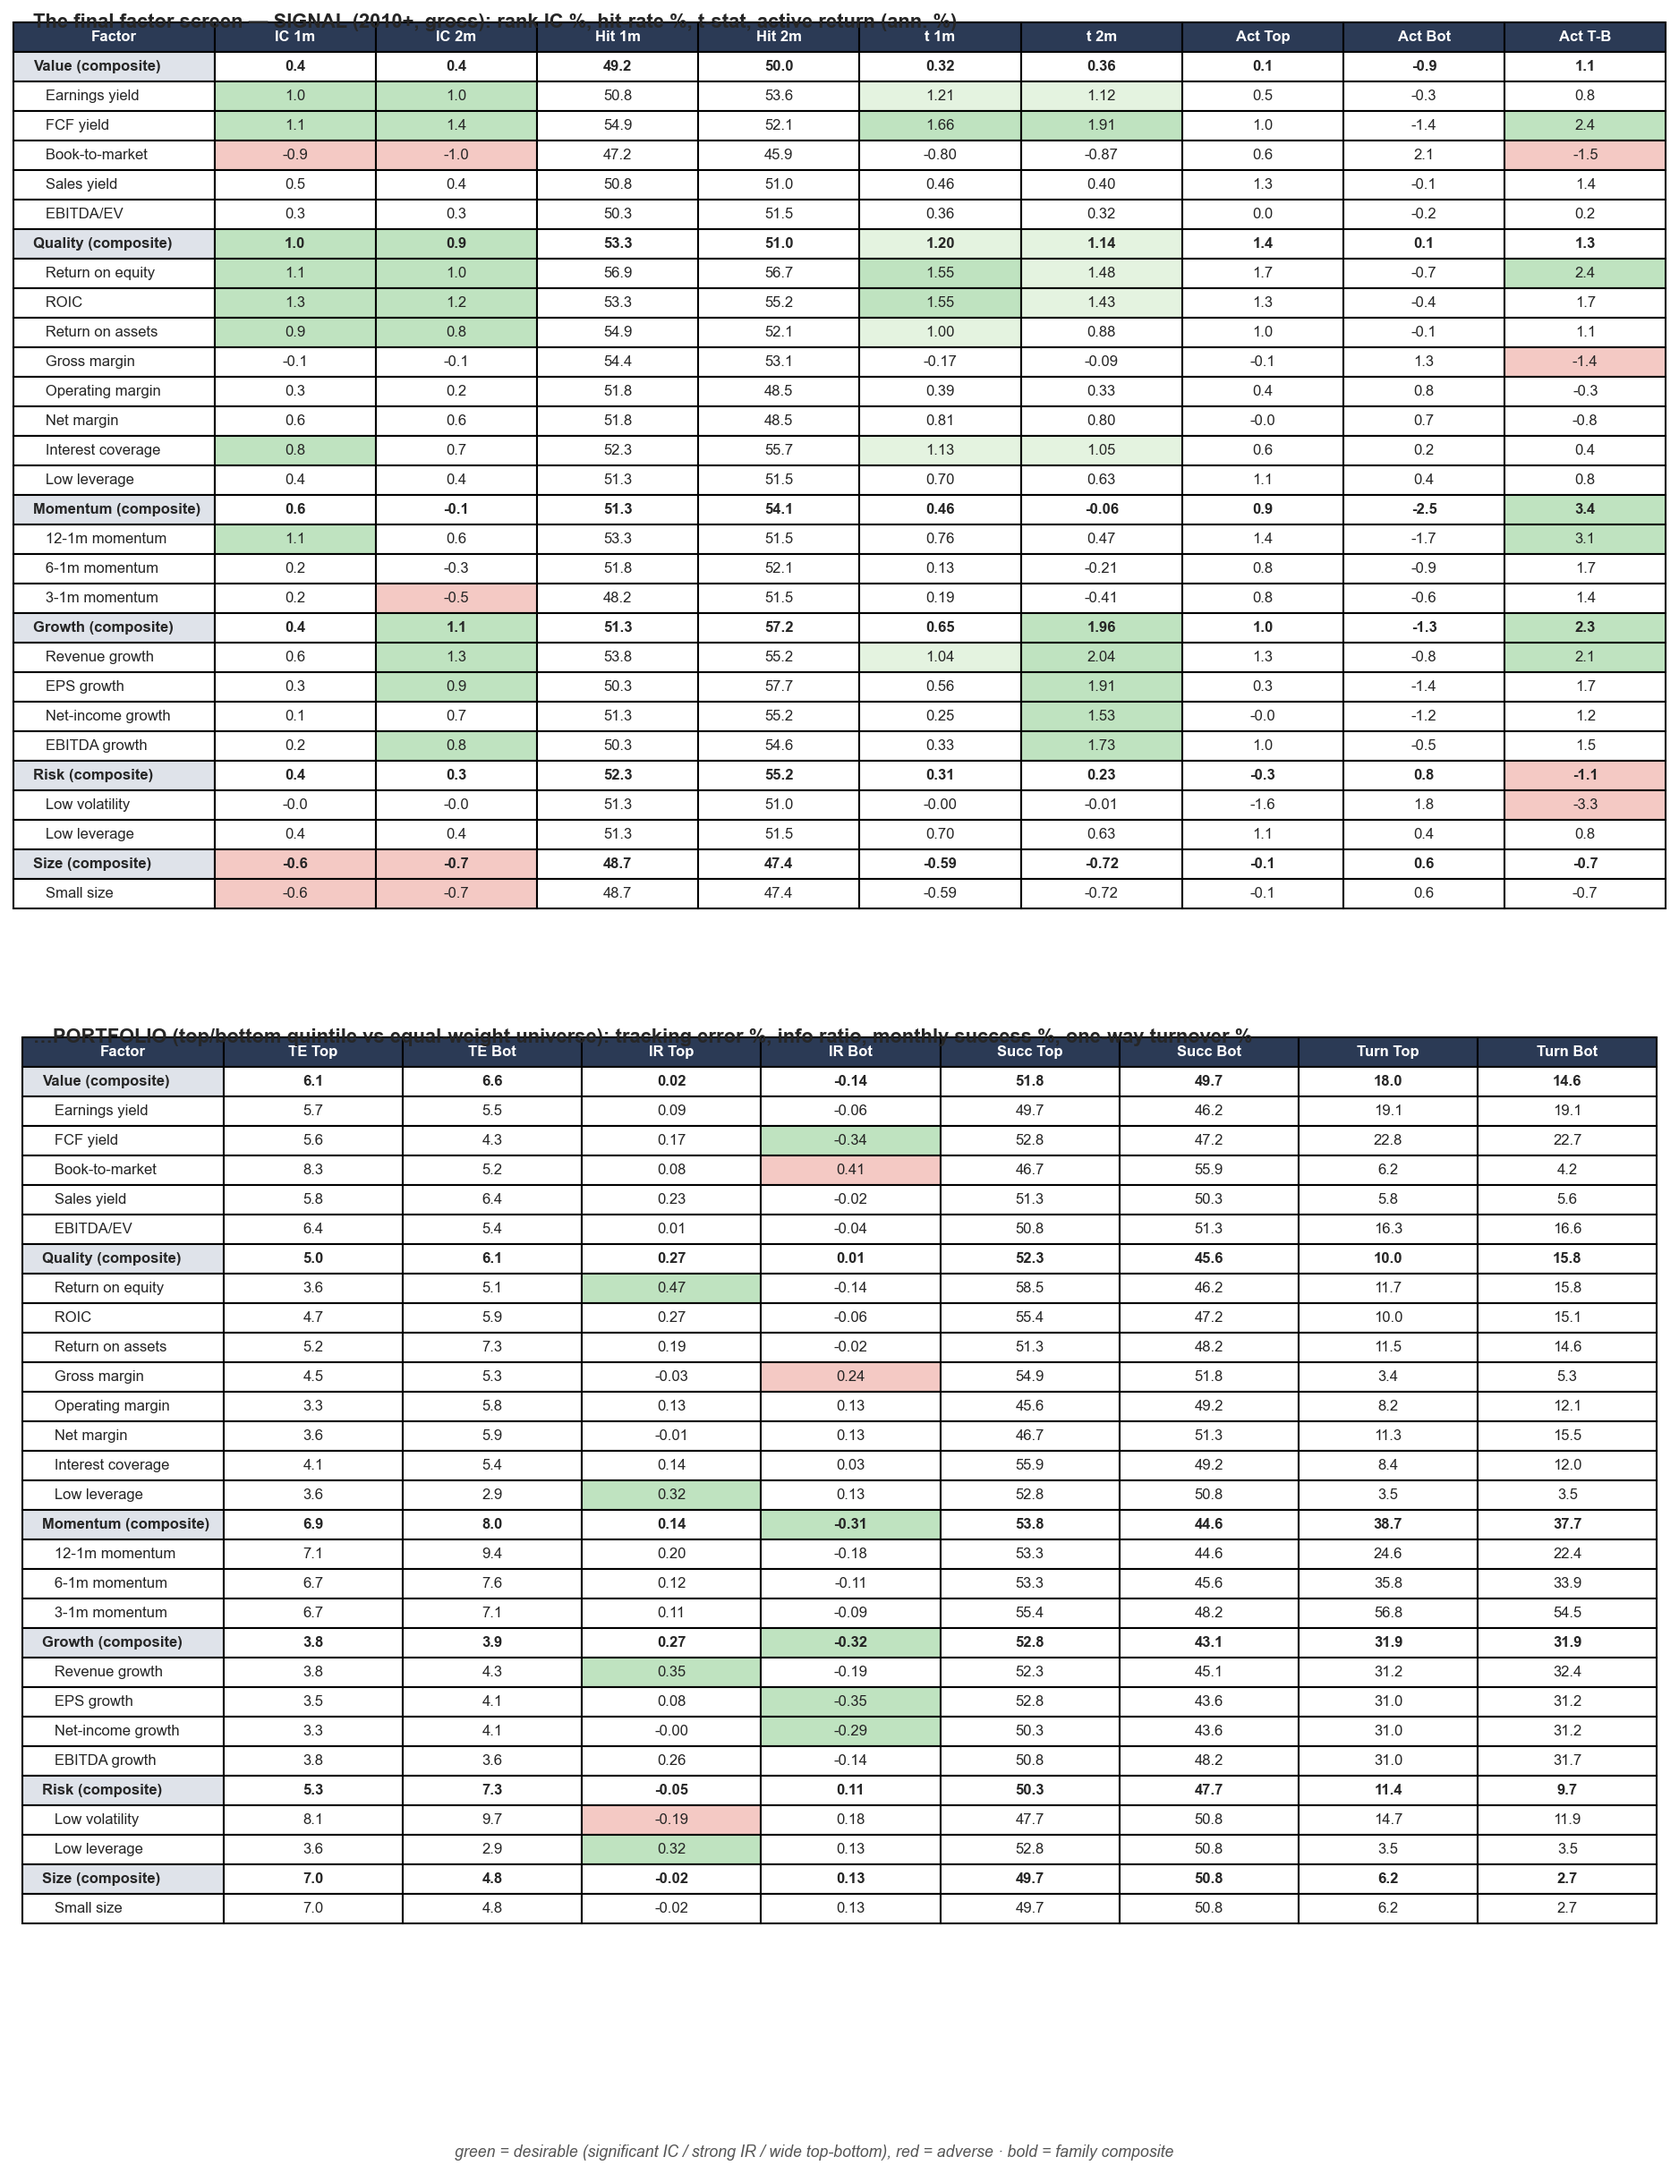
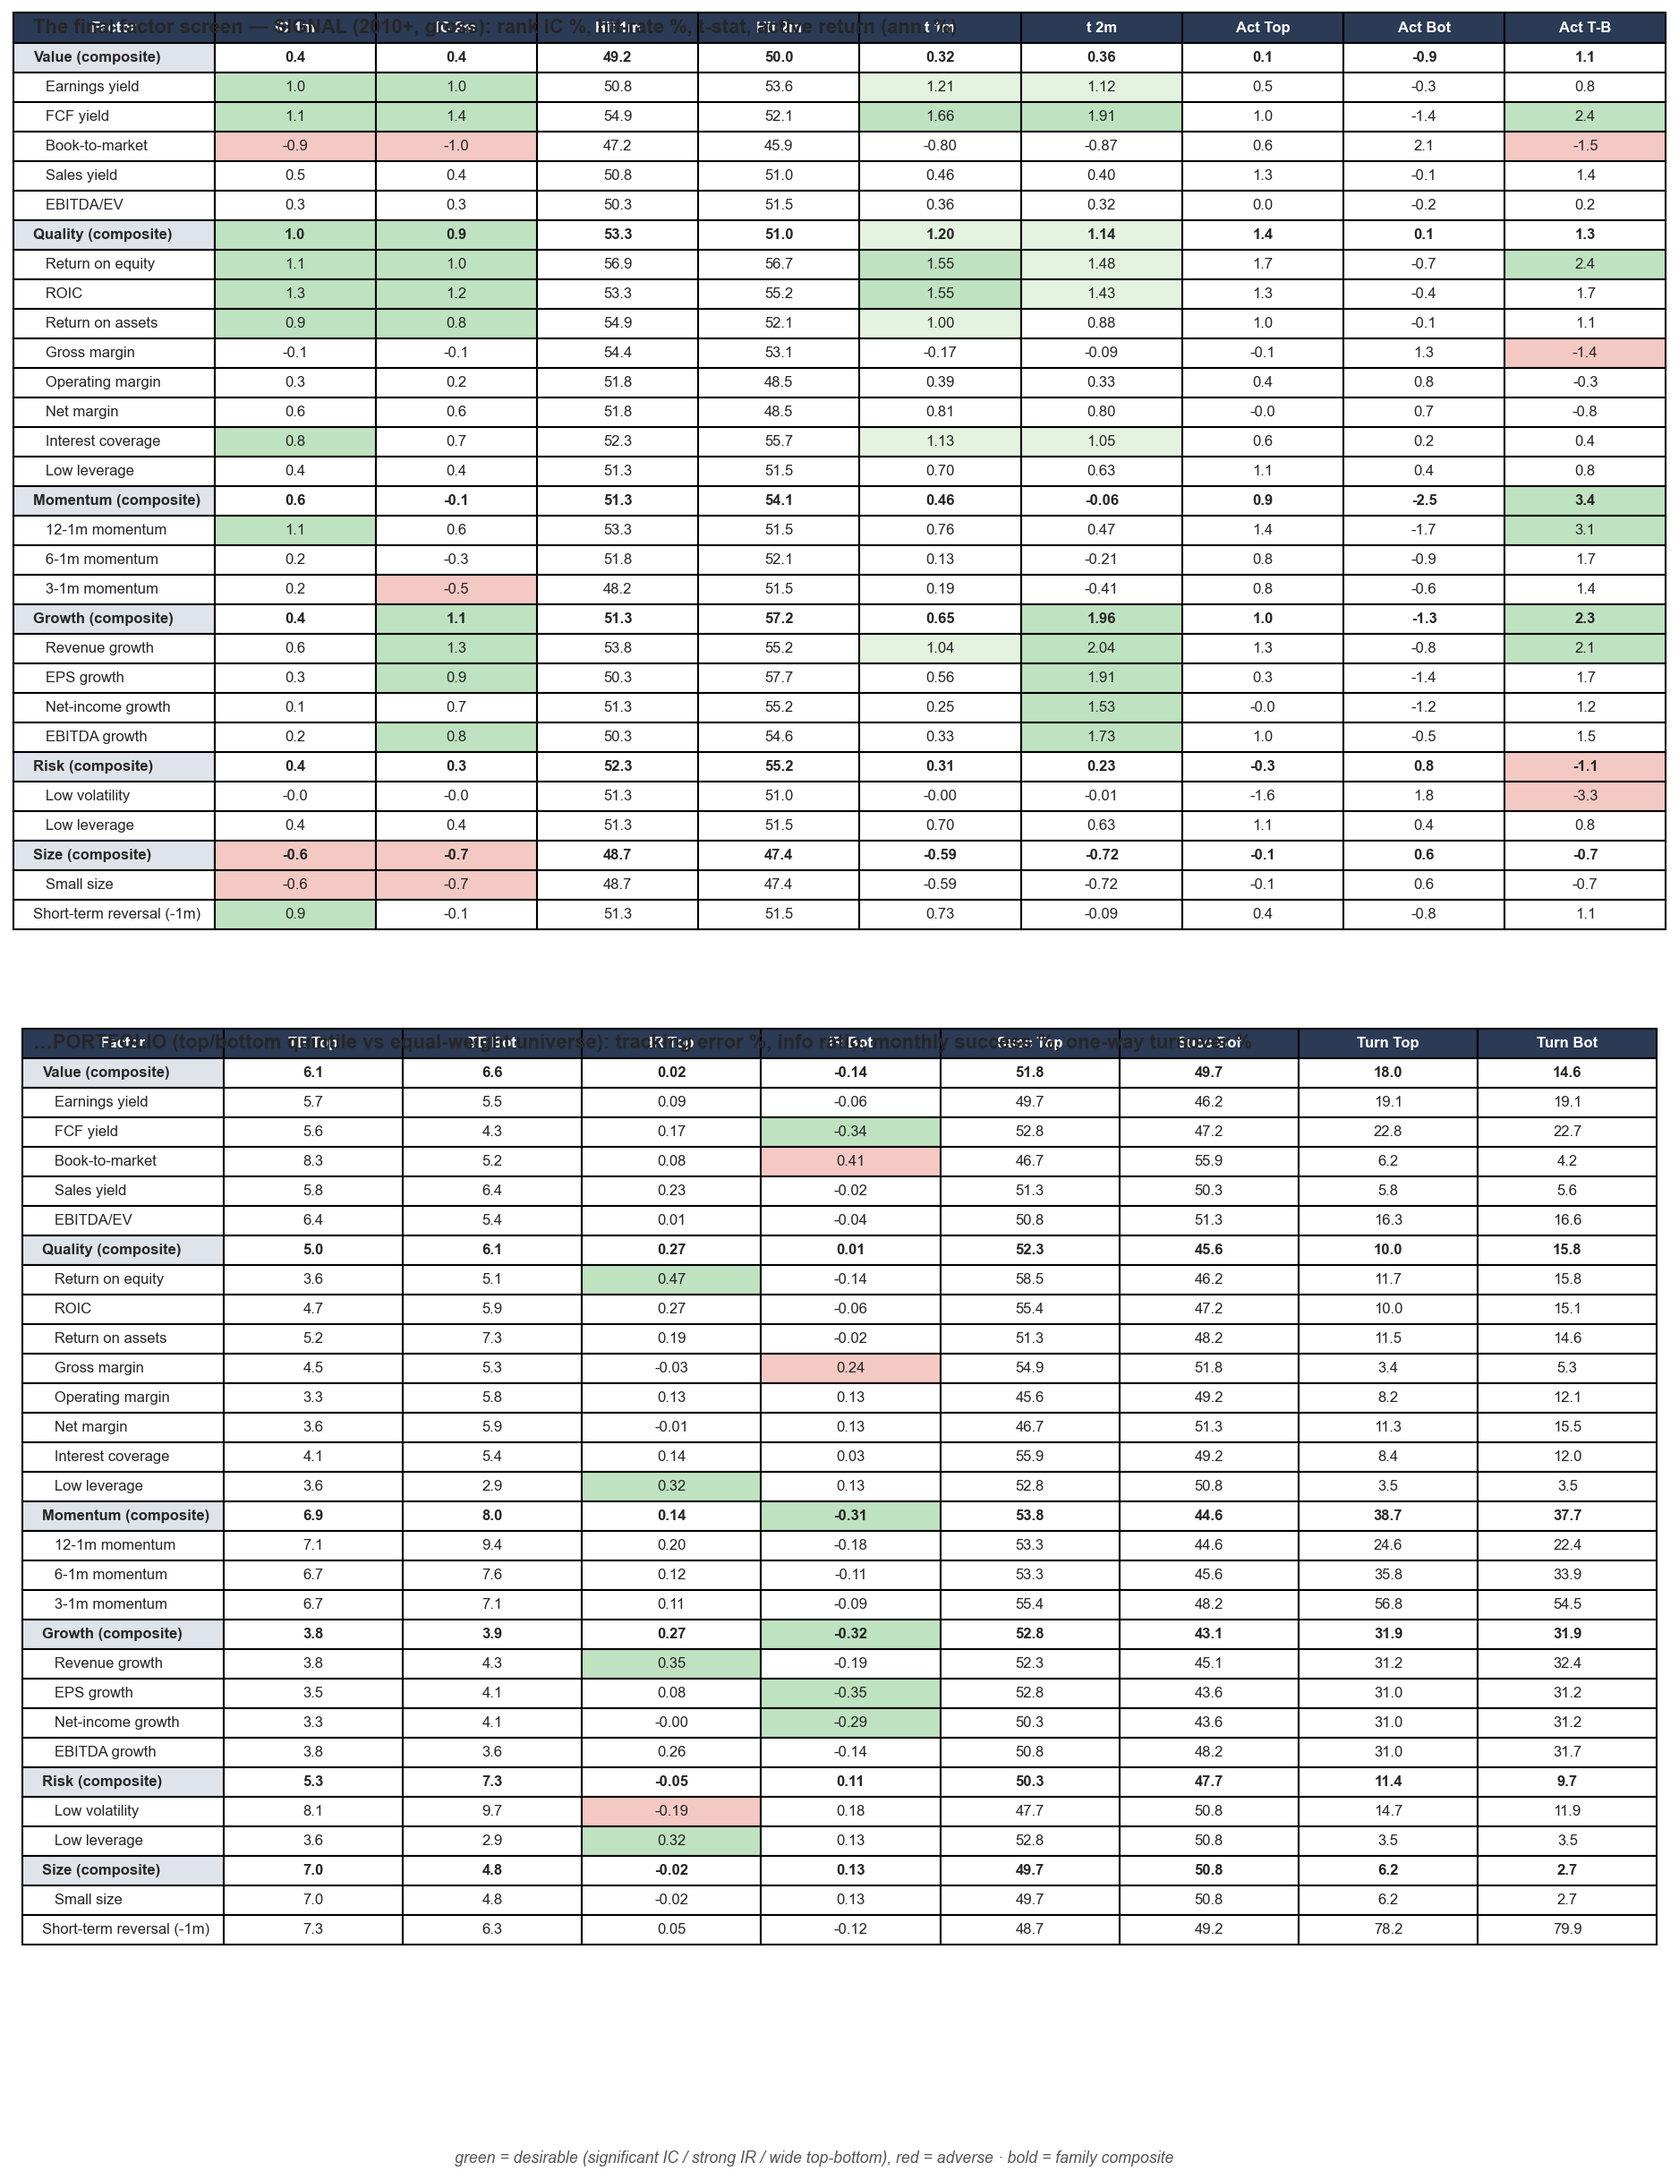
Add short-term reversal factor; include it in the factor screen
Adds a standalone 1-month reversal factor (-1m return, ranked) so the effect the
stale-price value factor was capturing accidentally is now explicit and measured.
Screen verdict: gross 1m IC 0.9% (t 0.73, ~ momentum) but ~79% monthly turnover and
it decays to zero by month 2 - useful as a conditional ML feature, not a standalone
tradable. Exposed via build_factor_panel for the Part 6 component feature set.

Changed region(s): [[0.0, 0.0, 0.9893, 0.4323], [0.0, 0.4632, 0.9893, 0.8954]]

diff --git a/src/qfr/factors/build.py b/src/qfr/factors/build.py
@@ -63,7 +63,8 @@ def _price_factors(rebalance: pd.DatetimeIndex) -> pd.DataFrame:
         px.groupby("symbol")["ret_1m"].transform(lambda s: s.rolling(12, min_periods=6).std())
         * np.sqrt(12)
     )
-    cols = ["mom_12_1", "mom_6_1", "mom_3_1", "vol_12m"]
+    px["st_rev"] = -px["ret_1m"]  # short-term reversal: last month's loser = high score
+    cols = ["mom_12_1", "mom_6_1", "mom_3_1", "vol_12m", "st_rev"]
     px[cols] = px[cols].replace([np.inf, -np.inf], np.nan)
     return px[["date", "symbol", *cols]]
 
@@ -163,6 +164,9 @@ def build_factor_panel() -> pd.DataFrame:
         panel[fam] = panel[[c + "_rk" for c in cols]].mean(axis=1)  # skips NaN components
     panel["size_raw_rk"] = cs_rank(cs_winsorize(panel, ["size_raw"]), ["size_raw"])["size_raw"]
     panel["size"] = panel["size_raw_rk"]
+    # Short-term reversal: standalone factor (not in any family composite).
+    panel["st_rev_rk"] = cs_rank(cs_winsorize(panel, ["st_rev"]), ["st_rev"])["st_rev"]
+    panel["reversal"] = panel["st_rev_rk"]
 
     # Re-rank composites to a clean uniform [0,1] within each date.
     rer = cs_rank(panel, fam_cols)
@@ -175,7 +179,7 @@ def build() -> pd.DataFrame:
     panel = build_factor_panel()
     fam_cols = list(FAMILIES) + ["size"]
     keep = ["date", "symbol", "sector", "marketCap", "adjClose",
-            "ret_fwd_1m", "ret_fwd_3m", "ret_fwd_6m", *fam_cols,
+            "ret_fwd_1m", "ret_fwd_3m", "ret_fwd_6m", *fam_cols, "reversal",
             "mom_12_1", "vol_12m"]
     out = panel[keep].sort_values(["date", "symbol"]).reset_index(drop=True)
     write_parquet(out, settings.processed_dir / "factors.parquet")

diff --git a/src/qfr/validation/factor_screen.py b/src/qfr/validation/factor_screen.py
@@ -52,7 +52,7 @@ LABELS = {
     "mom_12_1": "12-1m momentum", "mom_6_1": "6-1m momentum", "mom_3_1": "3-1m momentum",
     "revenueGrowth": "Revenue growth", "epsgrowth": "EPS growth",
     "netIncomeGrowth": "Net-income growth", "ebitdaGrowth": "EBITDA growth",
-    "lowVol": "Low volatility", "size_raw": "Small size",
+    "lowVol": "Low volatility", "size_raw": "Small size", "st_rev": "Short-term reversal (-1m)",
 }
 
 
@@ -65,6 +65,7 @@ def candidate_columns() -> list[tuple[str, str, str]]:
             items.append((fam.capitalize(), "   " + LABELS.get(c, c), c + "_rk"))
     items.append(("Size", "Size (composite)", "size"))
     items.append(("Size", "   " + LABELS["size_raw"], "size_raw_rk"))
+    items.append(("Reversal", LABELS["st_rev"], "st_rev_rk"))
     return items
 
 
